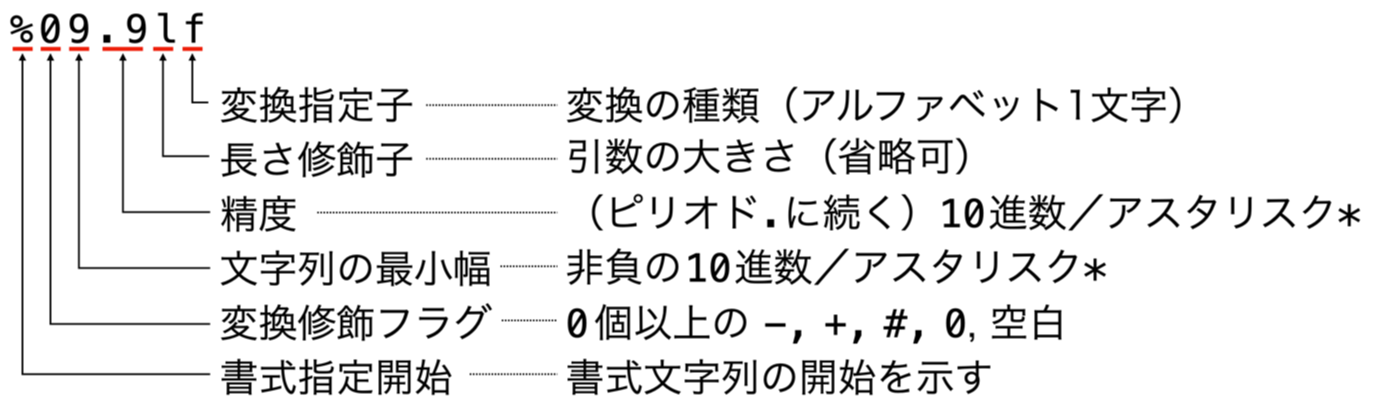
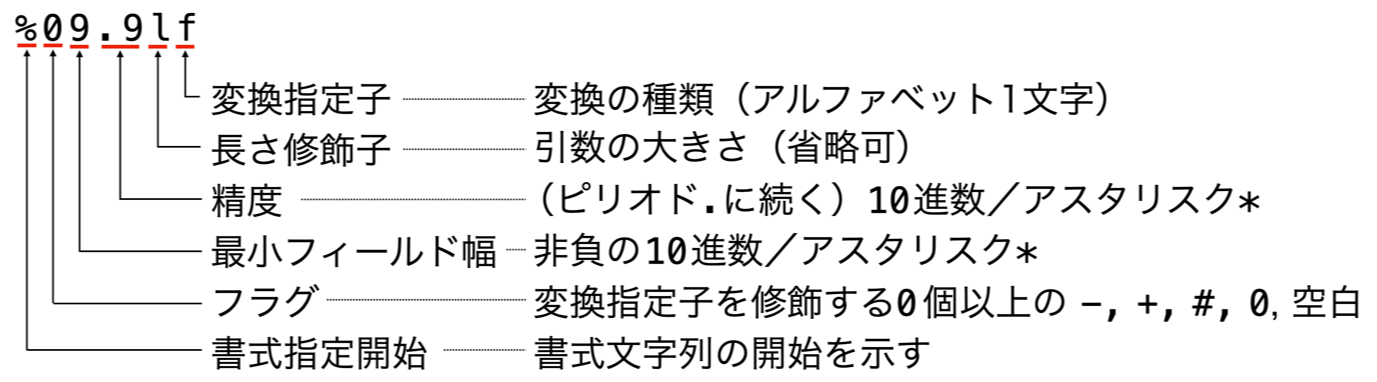
Update post.

Changed region(s): [[0.0, 0.0288, 0.9993, 0.9791]]

diff --git a/2024/04/14/printf-for-arduino-uno-r4.html b/2024/04/14/printf-for-arduino-uno-r4.html
@@ -132,7 +132,7 @@
 
 <p><code class="language-plaintext highlighter-rouge">printf()</code> や <code class="language-plaintext highlighter-rouge">scanf()</code> で押さえるべき書式文字列のフォーマットは次の通りです。</p>
 
-<p><img src="/images/2024/04-14/printf-format.png" alt="`printf()` や `scanf()` の書式" title="printf() や scanf() の書式" class="simple" width="1379" height="409"></p>
+<p><img src="/images/2024/04-14/printf-format.png" alt="`printf()` や `scanf()` の書式" title="printf() や scanf() の書式" class="simple" width="1377" height="382"></p>
 
 <p>厳密な書式指定仕様はそれなりのボリュームになり、ここには書ききれません。Linux 系や <a href="https://zenn.dev/kumamoto/articles/d536ac6df8a544" title="Macでもmanコマンドの出力を日本語/英語切り替え出来るようにする">Mac</a> であれば、シェルから <code class="language-plaintext highlighter-rouge">man 3 printf</code> とコマンドを打てば標準 C ライブラリの書式を調べられますし、簡潔にまとめてくれている次のサイトもオススメです。</p>
 
